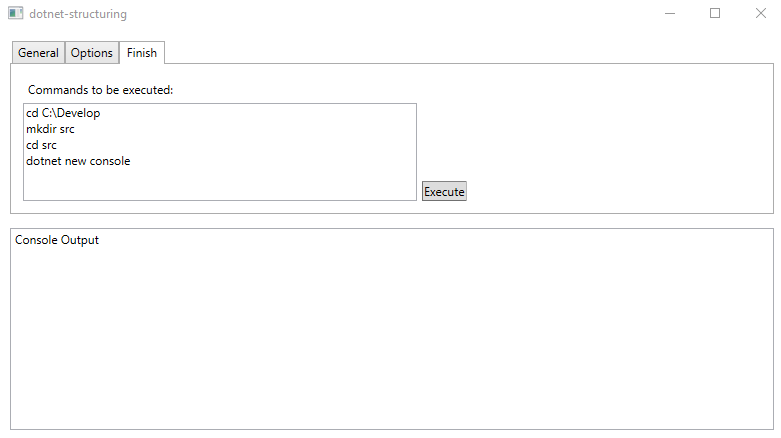
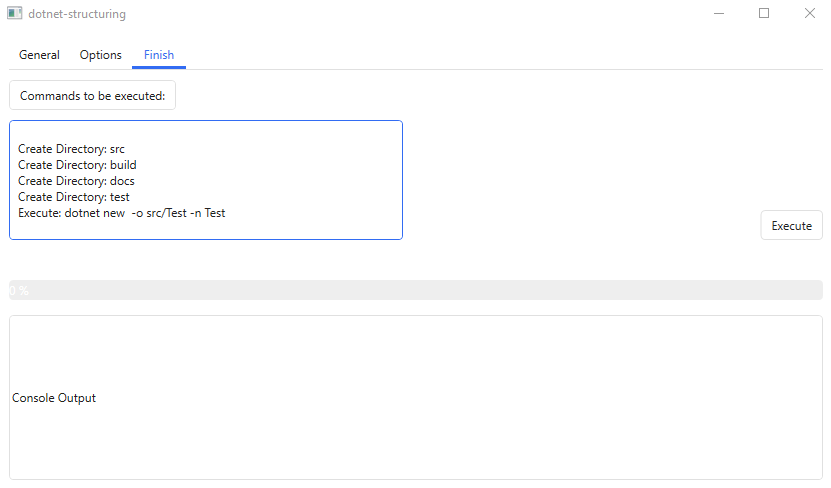
Several Updates

diff --git a/src/dotnet-structuring/MainWindow.xaml.cs b/src/dotnet-structuring/MainWindow.xaml.cs
@@ -24,13 +24,15 @@ namespace dotnet_structuring
     public partial class MainWindow : Window
     {
         public string PlaceholderText { get; set; }
+        public string ProjectType { get; private set; }
+
         public MainWindow()
         {
             InitializeComponent();
         }
 
         Variables Variables = new Variables();
-        Execute Execute = new library.Execute();
+        Templates templates = new Templates();
         int LogNum;
         string CurrentLog;
         private void WireEventHandlers(Execute e)
@@ -49,14 +51,6 @@ namespace dotnet_structuring
             {
                 pbStatus.Value++;
             }
-            else if (LogNum > Variables.ProccessAmount)
-            {
-                this.Dispatcher.Invoke(() => pbStatus.IsIndeterminate = false);
-                Style style = this.FindResource("ProgressBarWarningStripe") as Style;
-                this.Dispatcher.Invoke(() => pbStatus.Style = style);
-
-
-            }
             if (CurrentLog == "Done.")
             {
                 this.Dispatcher.Invoke(() => pbStatus.IsIndeterminate = true);
@@ -69,13 +63,16 @@ namespace dotnet_structuring
         {
             OutputBox.Clear();
             Execute OutputLogs = new Execute();
+            this.Dispatcher.Invoke(() => pbStatus.IsIndeterminate = true);
+            Style style = this.FindResource("ProgressBarWarningStripe") as Style;
+            this.Dispatcher.Invoke(() => pbStatus.Style = style);
             WireEventHandlers(OutputLogs);
             OutputLogs.CreateScript(Variables.Directories, Variables.NETCommand, Variables.ProjectName);
         }
         public void ProjectTypeSelector_DropDownClosed(object sender, EventArgs e)
         {
-            Variables.ProjectType = ProjectTypeSelector.Text;
-            if (Variables.ProjectType == "New Project")
+            ProjectType = ProjectTypeSelector.Text;
+            if (ProjectType == "New Project")
             {
                 TemplateSelector.IsEnabled = true;
                 ArtifactsCheckBox.IsEnabled = true;
@@ -106,76 +103,7 @@ namespace dotnet_structuring
         {
             if (TemplateSelector.IsDropDownOpen == false)
             {
-                switch (TemplateSelector.Text)
-                {
-                    case "Console Application":
-                        Variables.SelectedTemplate = "console";
-                        break;
-                    case "Class library":
-                        Variables.SelectedTemplate = "classlib";
-                        break;
-                    case "Unit Test Project":
-                        Variables.SelectedTemplate = "mstest";
-                        break;
-                    case "NUnit 3 Test Project":
-                        Variables.SelectedTemplate = "nunit";
-                        break;
-                    case "NUnit 3 Test Item":
-                        Variables.SelectedTemplate = "nunit-test";
-                        break;
-                    case "xUnit Test Project":
-                        Variables.SelectedTemplate = "xunit";
-                        break;
-                    case "Razor Page":
-                        Variables.SelectedTemplate = "page";
-                        break;
-                    case "MVC ViewImports":
-                        Variables.SelectedTemplate = "viewimports";
-                        break;
-                    case "MVC ViewStart":
-                        Variables.SelectedTemplate = "viewstart";
-                        break;
-                    case "ASP.NET Core Empty":
-                        Variables.SelectedTemplate = "web";
-                        break;
-                    case "ASP.NET Core Web App (Model-View-Controller)":
-                        Variables.SelectedTemplate = "mvc";
-                        break;
-                    case "Console":
-                        Variables.SelectedTemplate = "console";
-                        break;
-                    case "ASP.NET Core Web App":
-                        Variables.SelectedTemplate = "webapp";
-                        break;
-                    case "ASP.NET Core with Angular":
-                        Variables.SelectedTemplate = "angular";
-                        break;
-                    case "ASP.NET Core with React.js":
-                        Variables.SelectedTemplate = "react";
-                        break;
-                    case "ASP.NET Core with React.js and Redux":
-                        Variables.SelectedTemplate = "reactredux";
-                        break;
-                    case "Razor Class Library":
-                        Variables.SelectedTemplate = "razorclasslib";
-                        break;
-                    case "ASP.NET Core Web API":
-                        Variables.SelectedTemplate = "webapi";
-                        break;
-                    case "global.json file":
-                        Variables.SelectedTemplate = "globaljson";
-                        break;
-                    case "NuGet Config":
-                        Variables.SelectedTemplate = "nugetconfig";
-                        break;
-                    case "Web Config":
-                        Variables.SelectedTemplate = "webconfig";
-                        break;
-                    case "Solution File":
-                        Variables.SelectedTemplate = "sln";
-                        break;
-
-                }
+                templates.SelcectTemplate(TemplateSelector.SelectedIndex);
             }
         }
 
@@ -307,7 +235,7 @@ namespace dotnet_structuring
                 Variables.Directories = new string[] { Variables.Directory, "src", Variables.Artifacts, Variables.Build, Variables.Docs, Variables.Lib, Variables.Samples, Variables.Packages, Variables.Test };
                 ProjectNameBox.Text = ProjectNameBox.Text.Replace(" ", "_");
                 Variables.ProjectName = ProjectNameBox.Text;
-                Variables.NETCommand = " new " + Variables.SelectedTemplate + " " + Variables.Options + "-o src/" + ProjectNameBox.Text + " -n " + ProjectNameBox.Text;
+                Variables.NETCommand = " new " + templates.SelectedTemplate + " " + Variables.Options + "-o src/" + ProjectNameBox.Text + " -n " + ProjectNameBox.Text;
                 CommandSummaryBox.Clear();
                 for (int i = 1; i < Variables.Directories.Length; i++)
                 {

diff --git a/src/dotnet-structuring.library/Execute.cs b/src/dotnet-structuring.library/Execute.cs
@@ -42,7 +42,7 @@ namespace dotnet_structuring.library
             for (int i = 1; i < Directories.Length; i++)
             {
                 var DirectoryBeingCreated = currentWorkingDir + Directories[i];
-                {
+                
                     if (Directory.Exists(DirectoryBeingCreated))
                     {
                         FireEvent("Directory " + DirectoryBeingCreated + " already exists");
@@ -52,40 +52,41 @@ namespace dotnet_structuring.library
                         var result = Directory.CreateDirectory(DirectoryBeingCreated);
                         FireEvent("Directory " + result.FullName + " successfully created!");
                     }
-                }
-                if (!Directory.Exists(currentWorkingDir + @"src\" + ProjectName))
+                
+            }
+            if (!Directory.Exists(currentWorkingDir + @"src\" + ProjectName))
+            {
+                Process p = new Process();
+
+                p.StartInfo.WorkingDirectory = currentWorkingDir;
+                p.StartInfo.FileName = "dotnet";
+                p.StartInfo.Arguments = Command;
+                p.StartInfo.UseShellExecute = false;
+                p.StartInfo.RedirectStandardOutput = true;
+                p.StartInfo.CreateNoWindow = true;
+                p.OutputDataReceived += new DataReceivedEventHandler((sender, e) =>
                 {
-                    Process p = new Process();
+                    // Prepend line numbers to each line of the output.
+                    FireEvent(e.Data);
 
-                    p.StartInfo.WorkingDirectory = currentWorkingDir;
-                    p.StartInfo.FileName = "dotnet";
-                    p.StartInfo.Arguments = Command;
-                    p.StartInfo.UseShellExecute = false;
-                    p.StartInfo.RedirectStandardOutput = true;
-                    p.StartInfo.CreateNoWindow = true;
-                    p.OutputDataReceived += new DataReceivedEventHandler((sender, e) =>
-                    {
-                        // Prepend line numbers to each line of the output.
-                        FireEvent(e.Data);
-
-                    });
-                    p.Start();
-                    p.BeginOutputReadLine();
-                    p.EnableRaisingEvents = true;
-                    p.Exited += new EventHandler((sender, e) =>
-                    {
-                        FireEvent(Environment.NewLine);
-                        FireEvent("Done.");
-
-                    });
-                    p.WaitForExit();
-                }
-                else
+                });
+                p.Start();
+                p.BeginOutputReadLine();
+                p.EnableRaisingEvents = true;
+                p.Exited += new EventHandler((sender, e) =>
                 {
-                    FireEvent("A Project with this Name already exists!");
                     FireEvent(Environment.NewLine);
                     FireEvent("Done.");
-                }
+                    p.Kill();
+
+                });
+
+            }
+            else
+            {
+                FireEvent("A Project with this Name already exists!");
+                FireEvent(Environment.NewLine);
+                FireEvent("Done.");
             }
         }
     }

diff --git a/src/dotnet-structuring.library/Templates.cs b/src/dotnet-structuring.library/Templates.cs
@@ -1,0 +1,86 @@
+using dotnet_structuring.library;
+using System;
+using System.Collections.Generic;
+using System.Text;
+
+namespace dotnet_structuring.library
+{
+    public class Templates
+    {
+        public string SelectedTemplate { get; private set; }
+
+        public void SelcectTemplate(int i)
+        {
+            switch (i)
+            {
+                case 1:
+                    SelectedTemplate = "console";
+                    break;
+                case 2:
+                    SelectedTemplate = "classlib";
+                    break;
+                case 3:
+                    SelectedTemplate = "mstest";
+                    break;
+                case 4:
+                    SelectedTemplate = "nunit";
+                    break;
+                case 5:
+                    SelectedTemplate = "nunit-test";
+                    break;
+                case 6:
+                    SelectedTemplate = "xunit";
+                    break;
+                case 7:
+                    SelectedTemplate = "page";
+                    break;
+                case 8:
+                    SelectedTemplate = "viewimports";
+                    break;
+                case 9:
+                    SelectedTemplate = "viewstart";
+                    break;
+                case 10:
+                    SelectedTemplate = "web";
+                    break;
+                case 11:
+                    SelectedTemplate = "mvc";
+                    break;
+                case 12:
+                    SelectedTemplate = "console";
+                    break;
+                case 13:
+                    SelectedTemplate = "webapp";
+                    break;
+                case 14:
+                    SelectedTemplate = "angular";
+                    break;
+                case 15:
+                    SelectedTemplate = "react";
+                    break;
+                case 16:
+                    SelectedTemplate = "reactredux";
+                    break;
+                case 17:
+                    SelectedTemplate = "razorclasslib";
+                    break;
+                case 18:
+                    SelectedTemplate = "webapi";
+                    break;
+                case 19:
+                    SelectedTemplate = "globaljson";
+                    break;
+                case 20:
+                    SelectedTemplate = "nugetconfig";
+                    break;
+                case 21:
+                    SelectedTemplate = "webconfig";
+                    break;
+                case 22:
+                    SelectedTemplate = "sln";
+                    break;
+
+            }
+        }
+    }
+}

diff --git a/tests/dotnet-structuring.tests/ExecuteTest.cs b/tests/dotnet-structuring.tests/ExecuteTest.cs
@@ -14,6 +14,7 @@ namespace dotnet_structuring.tests
         Variables _ = new Variables();
         TempDirectory temp = new TempDirectory();
         string CurrentLog;
+        private string SelectedTemplate;
 
         //Setup EventHandler
         private void WireEventHandlers(Execute e)
@@ -41,9 +42,9 @@ namespace dotnet_structuring.tests
             _.Samples = "samples";
             _.Packages = "packages";
             _.Test = "test";
-            _.SelectedTemplate = "console";
+            SelectedTemplate = "console";
             _.Options = "";
-            _.NETCommand = " new " + _.SelectedTemplate + " " + _.Options + "-o src/" + _.ProjectName + " -n " + _.ProjectName;
+            _.NETCommand = " new " + SelectedTemplate + " " + _.Options + "-o src/" + _.ProjectName + " -n " + _.ProjectName;
             _.Directories = new string[]
             {
              _.Directory,
@@ -57,7 +58,7 @@ namespace dotnet_structuring.tests
             };
         }
         [Test]
-        public void FullWindowsTest()
+        public void FullTest()
         {
             Execute OutputLogs = new Execute();
             WireEventHandlers(OutputLogs);
@@ -65,7 +66,7 @@ namespace dotnet_structuring.tests
             Assert.AreEqual("Done.", CurrentLog);
         }
         [Test]
-        public void SecondFullWindowsTest()
+        public void SecondFullTest()
         {
             Execute OutputLogs = new Execute();
             WireEventHandlers(OutputLogs);

diff --git a/src/dotnet-structuring.library/Variables.cs b/src/dotnet-structuring.library/Variables.cs
@@ -4,16 +4,6 @@ namespace dotnet_structuring.library
 {
     public class Variables
     {
-        public string SelectedTemplate
-        {
-            get;
-            set;
-        }
-        public string ProjectType
-        {
-            get;
-            set;
-        }
         public string Directory
         {
             get;
@@ -74,11 +64,6 @@ namespace dotnet_structuring.library
             get;
             set;
         }
-        public int ProccessAmount
-        {
-            get;
-            set;
-        }
-
+        public int ProccessAmount { get; set; }
     }
 }
